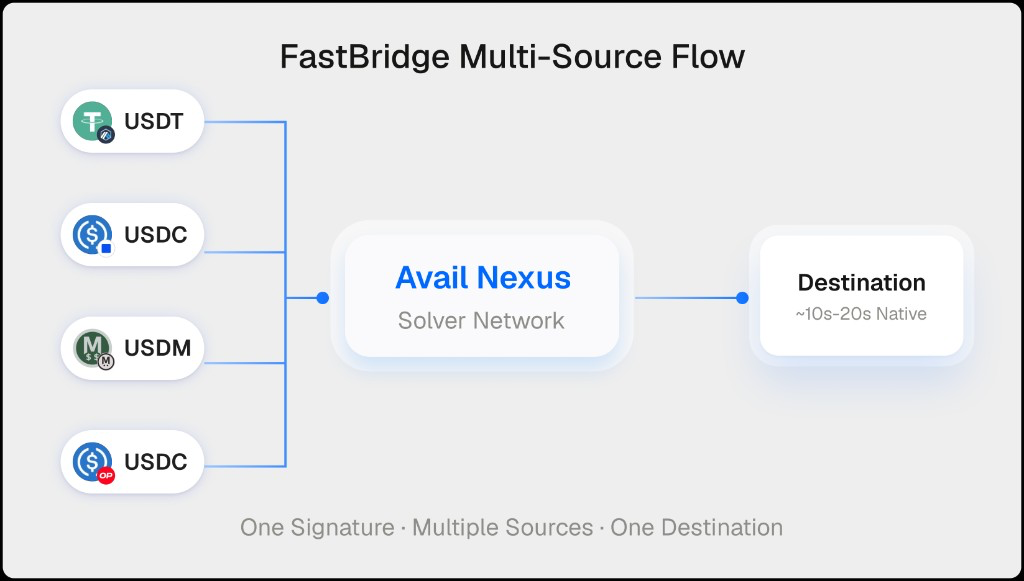
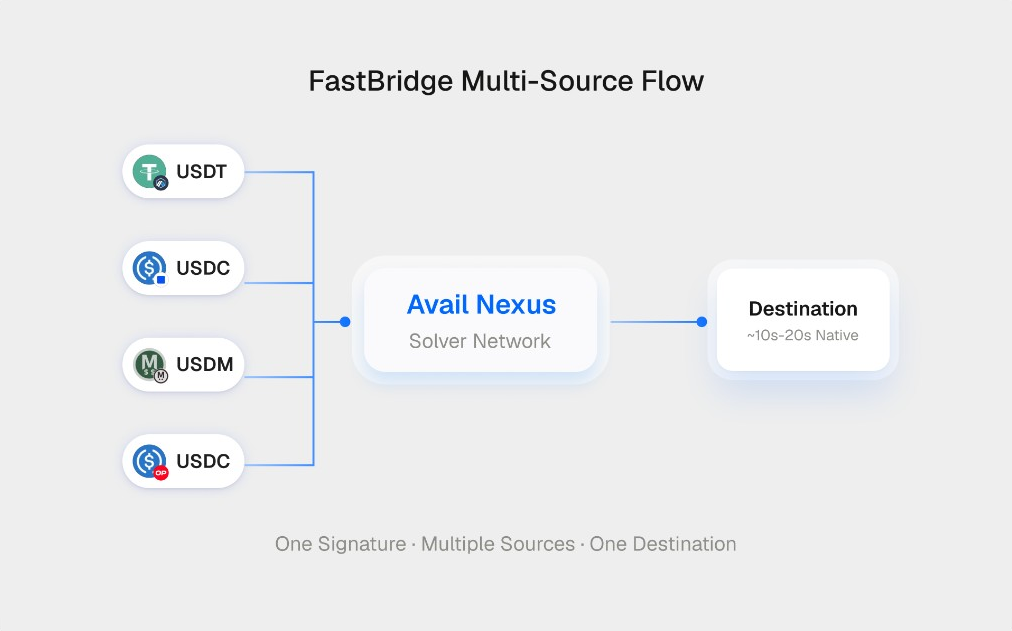
Update flow diagram asset and remove visible border framing.
Replace the guide diagram with the latest export, crop the baked-in black stroke, and deploy the HTML/CSS cache-bust updates so GitHub Pages serves the new image.

diff --git a/best-cross-chain-bridge-2026.html b/best-cross-chain-bridge-2026.html
@@ -13,7 +13,7 @@
   <link rel="stylesheet" href="hero.css?v=53">
   <link rel="stylesheet" href="sections.css?v=30">
   <link rel="stylesheet" href="faq.css?v=12">
-  <link rel="stylesheet" href="seo-page.css?v=30">
+  <link rel="stylesheet" href="seo-page.css?v=32">
   <link rel="stylesheet" href="button-hovers.css?v=20260605">
 </head>
 <body>
@@ -323,7 +323,7 @@
           <p>Intent-based bridges flip the model. The user declares an outcome, <em>"I want X USDC on chain Y"</em>, and a solver fulfills the intent using their own liquidity on the destination chain, delivering native tokens in seconds. The solver is reimbursed on-chain after verification. FastBridge, Across, and deBridge all use this architecture.</p>
 
           <figure class="seo-flow">
-            <img src="assets/branding/diagrams/fastbridge-multi-source-flow.png" alt="FastBridge multi-source flow diagram showing USDT, USDC, USDM, and USDC on Optimism flowing through Avail Nexus solver network to a destination in one signature" width="1024" height="581" loading="lazy" decoding="async">
+            <img src="assets/branding/diagrams/fastbridge-multi-source-flow.png?v=4" alt="FastBridge multi-source flow diagram showing USDT, USDC, USDM, and USDC on Optimism flowing through Avail Nexus solver network to a destination in one signature" width="1012" height="631" loading="lazy" decoding="async">
           </figure>
 
           <p>FastBridge extends the intent model further. Most intent bridges still resolve to one source chain per intent. <strong>FastBridge resolves a single intent across multiple source chains simultaneously</strong>, and can swap into a different destination token in the same flow.</p>

diff --git a/seo-page.css b/seo-page.css
@@ -812,18 +812,15 @@
   margin: 1.5em 0;
   padding: 0;
   border: none;
-  border-radius: 14px;
   background: transparent;
-  overflow: hidden;
 }
 
 .seo-flow img {
   display: block;
   width: 100%;
-  max-width: 1024px;
+  max-width: 1012px;
   height: auto;
   margin-inline: auto;
-  border-radius: 14px;
 }
 
 /* —— Guide page: comparison table highlights —— */
